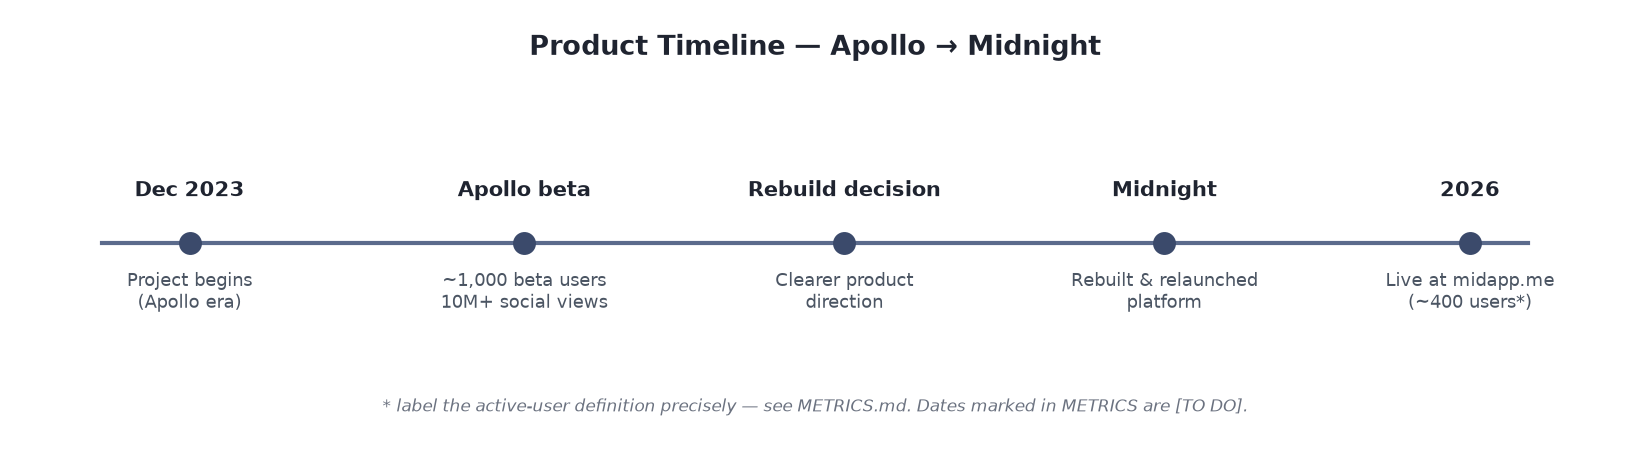
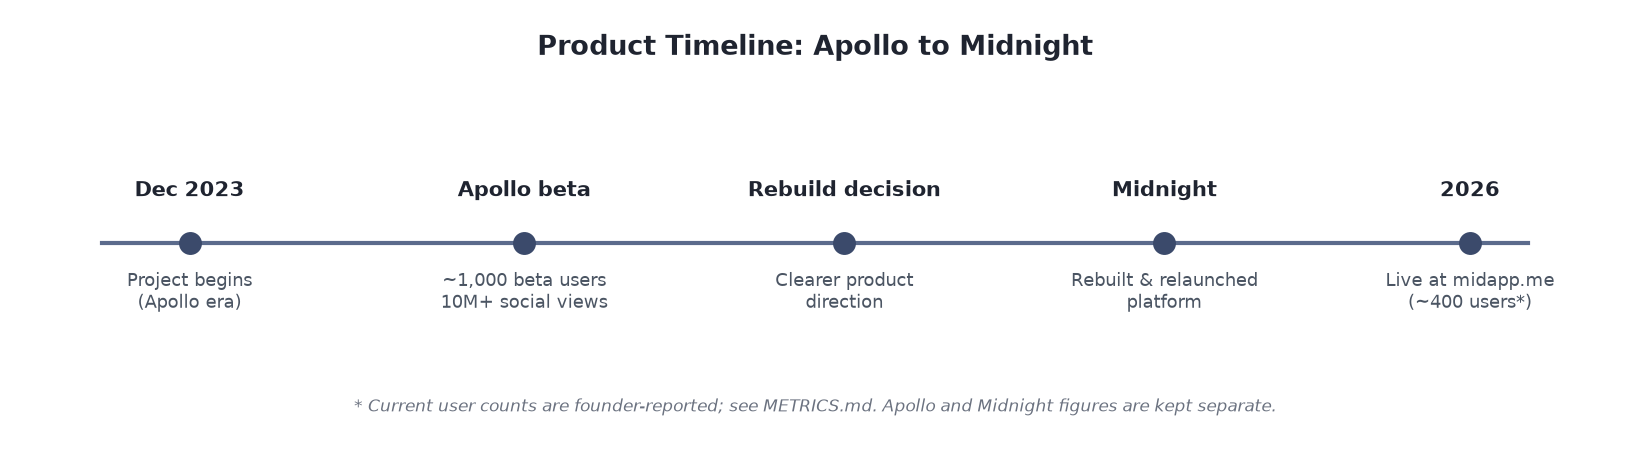
Remove em dashes from docs, description, and diagrams; fix auth in ASCII diagram

Changed region(s): [[0.2147, 0.8522, 0.7975, 0.913], [0.3067, 0.0609, 0.6748, 0.1217]]

diff --git a/ARCHITECTURE.md b/ARCHITECTURE.md
@@ -19,8 +19,8 @@
                          │               │               │
              ┌───────────▼──┐   ┌────────▼────────┐  ┌───▼──────────────────┐
              │ Auth          │   │ Database        │  │ AI routing layer     │
-             │ (Supabase)    │   │ (Supabase/       │  │ (Vercel AI SDK →     │
-             │               │   │  Postgres)      │  │  multiple providers) │
+             │ (WorkOS)      │   │ (PostgreSQL /   │  │ (Vercel AI SDK to    │
+             │               │   │  Supabase)      │  │  multiple providers) │
              └───────────────┘   └─────────────────┘  └───┬──────────────────┘
                                                           │
                                           ┌───────────────▼───────────────┐
@@ -36,21 +36,21 @@
 A rendered version is in [assets/architecture-diagram.png](assets/architecture-diagram.png).
 
 ## Components (generalized)
-- **Frontend** — Next.js 15 / React 19 single web application; component library built on Radix
+- **Frontend**: Next.js 15 / React 19 single web application; component library built on Radix
   UI primitives with Tailwind CSS; server state via TanStack Query.
-- **Application backend** — server-side routes handling requests, orchestration, and access to
+- **Application backend**: server-side routes handling requests, orchestration, and access to
   data and model providers.
-- **Authentication** — managed auth via **WorkOS (AuthKit)**.
-- **Database** — PostgreSQL (Supabase). *Schema intentionally omitted.*
-- **Caching / rate limiting** — Redis (Upstash).
-- **AI routing layer** — a single interface over **multiple model providers** (OpenAI, Groq,
+- **Authentication**: managed auth via **WorkOS (AuthKit)**.
+- **Database**: PostgreSQL (Supabase). *Schema intentionally omitted.*
+- **Caching / rate limiting**: Redis (Upstash).
+- **AI routing layer**: a single interface over **multiple model providers** (OpenAI, Groq,
   Cerebras, Fireworks AI) via the Vercel AI SDK, so requests can be served by different providers.
   *Routing logic and prompts omitted.*
-- **Background jobs** — long-running AI work (grading, generation, tutoring artifacts, generated
+- **Background jobs**: long-running AI work (grading, generation, tutoring artifacts, generated
   media) runs asynchronously via **Trigger.dev** so the UI stays responsive; progress is tracked
   and completion triggers notifications.
-- **Monitoring & analytics** — error tracking (Sentry) and product analytics (PostHog).
-- **Delivery** — monorepo (Turborepo + Yarn workspaces), deployed on Vercel, with staging used to
+- **Monitoring & analytics**: error tracking (Sentry) and product analytics (PostHog).
+- **Delivery**: monorepo (Turborepo + Yarn workspaces), deployed on Vercel, with staging used to
   validate configuration and deploys before production.
 
 ## Verified technology stack
@@ -64,7 +64,7 @@ Confirmed by inspecting the private repository's manifests (library names are no
 | Auth | WorkOS (AuthKit) |
 | Database | PostgreSQL (Supabase) |
 | Caching / rate limiting | Redis (Upstash) |
-| AI | Multi-provider LLM integration via the Vercel AI SDK — OpenAI, Groq, Cerebras, Fireworks AI (Llama, GPT-OSS, and GLM model families) |
+| AI | Multi-provider LLM integration via the Vercel AI SDK: OpenAI, Groq, Cerebras, Fireworks AI (Llama, GPT-OSS, and GLM model families) |
 | Background jobs | Trigger.dev (long-running AI tasks) |
 | Email | Resend / React Email |
 | Analytics & monitoring | PostHog, Sentry |

diff --git a/CASE_STUDY.md b/CASE_STUDY.md
@@ -1,8 +1,8 @@
-# Midnight — Full Case Study
+# Midnight: Full Case Study
 
 > Documentation-only. No production source code, user data, or secrets. Product-analytics figures
 > are founder-reported and aggregated. Historical **the beta** figures and current **Midnight**
-> figures are kept separate — see [METRICS.md](METRICS.md).
+> figures are kept separate, see [METRICS.md](METRICS.md).
 
 ## 1. Executive summary
 Midnight is an AI-powered student success platform ([www.midapp.me](https://www.midapp.me)) that
@@ -10,9 +10,9 @@ helps students turn scattered academic inputs into finished work through AI-assi
 quiz generation, flashcards, tutoring, and Canvas LMS integration. It is a rebuild and relaunch of
 an earlier product, **the beta**. Working in close coordination with a co-founder, I led product
 planning, user research, development priorities, testing, and marketing strategy, and served as the
-lead engineer and top code contributor (**1,684 of 3,607 commits, ~47%** — verified from the
+lead engineer and top code contributor (**1,684 of 3,607 commits, ~47%**, verified from the
 private repository). This case study documents the product problem, the the beta→Midnight transition,
-my responsibilities, the technical approach, and honest results and limitations — without exposing
+my responsibilities, the technical approach, and honest results and limitations, without exposing
 proprietary code.
 
 ## 2. The student problem
@@ -23,7 +23,7 @@ Midnight targets that gap with a single, student-first workspace where AI helps 
 *organize* academic work, and where long-running tasks keep progressing in the background.
 
 ## 3. The original the beta product
-the beta was the earlier version of this idea — an AI-assisted academic product for students. It
+the beta was the earlier version of this idea, an AI-assisted academic product for students. It
 validated demand and generated meaningful early traction: **approximately 1,000 live beta users**
 and **more than 10 million social-media views**, built with a team of **~25 contributors** (all
 founder-reported; see [METRICS.md](METRICS.md)).
@@ -41,11 +41,11 @@ features.
 
 ## 6. Midnight product direction
 Midnight is organized around a small set of AI-assisted tools that map to real student tasks:
-- **AI Grader** — assignment feedback and rubric evaluation.
-- **AI Quiz Generator** — quizzes from a topic, with practice/exam modes and resume.
-- **AI Flashcards** — deck generation with spaced repetition (FSRS).
-- **AI Tutor** — a tutoring workspace with interactive artifacts and generated study aids.
-- **Tasks** — assignment tracking with Canvas LMS sync.
+- **AI Grader**: assignment feedback and rubric evaluation.
+- **AI Quiz Generator**: quizzes from a topic, with practice/exam modes and resume.
+- **AI Flashcards**: deck generation with spaced repetition (FSRS).
+- **AI Tutor**: a tutoring workspace with interactive artifacts and generated study aids.
+- **Tasks**: assignment tracking with Canvas LMS sync.
 
 Design principle (from the product's own guidelines): *student work comes first; quiet confidence
 over spectacle; real controls over decoration.* Long AI jobs run in the background so students can
@@ -97,7 +97,7 @@ The platform serves AI features through a **multi-provider routing layer** (Verc
 OpenAI, Groq, Cerebras, and Fireworks AI), with **Upstash Redis** for rate limiting/caching and
 **Trigger.dev** running long AI tasks as background jobs. This architecture supports flexibility
 across model providers and keeps latency and cost manageable. No specific cost-reduction
-percentage is claimed here — see [METRICS.md](METRICS.md).
+percentage is claimed here, see [METRICS.md](METRICS.md).
 
 ## 12. Team and collaboration
 Midnight is built by a team (~13+ contributors in the current repository; ~25 during the the beta
@@ -111,7 +111,7 @@ environment used to validate configuration and deploys before release. Current u
 approximately **400 users** (founder-reported; see [METRICS.md](METRICS.md)).
 
 ## 14. Metrics
-All metrics — labeled, separated by product era, and marked verified/self-reported — live in
+All metrics, labeled, separated by product era, and marked verified/self-reported, live in
 [METRICS.md](METRICS.md). the beta and Midnight numbers are **never combined**.
 
 ## 15. Mistakes and lessons learned

diff --git a/README.md b/README.md
@@ -1,8 +1,8 @@
-# Midnight — Product Case Study
+# Midnight: Product Case Study
 
 Midnight is an education-technology platform focused on helping students use AI-assisted
 academic tools more effectively. This repository documents the product-development process,
-selected technical decisions, and lessons from rebuilding an earlier alpha product — while
+selected technical decisions, and lessons from rebuilding an earlier alpha product, while
 keeping the production source code private.
 
 > This is a **documentation-only case study**. It contains no production source code, no user
@@ -20,7 +20,7 @@ from an earlier product called **the beta**. Approximately **400 current users**
 
 ## My role
 Led product planning, user research, development priorities, testing, and marketing strategy, in
-close coordination with a co-founder — and served as lead engineer and the top code contributor.
+close coordination with a co-founder, and served as lead engineer and the top code contributor.
 Verified from the private repository: **1,684 of 3,607 commits (~47%)**, the single largest share
 among ~13+ contributors. Category-by-category ownership is in
 [CASE_STUDY.md → My responsibilities](CASE_STUDY.md#7-my-responsibilities).
@@ -35,7 +35,7 @@ create and organize academic work while background jobs keep long tasks moving.
   applying lessons to product design, UX, team structure, and technical infrastructure.
 - Led product planning, user research, development priorities, testing, and marketing strategy.
 - As lead engineer, built across the codebase (AI-assisted grading, quiz/flashcard generation with
-  spaced repetition, tutor workspace, Canvas LMS integration) — top contributor at ~47% of commits.
+  spaced repetition, tutor workspace, Canvas LMS integration), top contributor at ~47% of commits.
 - Worked on the multi-provider AI routing layer serving model requests across providers.
 
 ## Verified results
@@ -43,14 +43,14 @@ create and organize academic work while background jobs keep long tasks moving.
 - Production platform live at **www.midapp.me** with a multi-tool AI workspace.
 - **Predecessor (the beta):** ~1,000 live beta users, 10M+ social-media views, ~25 contributors
   (founder-reported). the beta and Midnight numbers are kept **separate and precisely labeled** in
-  [METRICS.md](METRICS.md) — never combined.
+  [METRICS.md](METRICS.md), never combined.
 
 ## Technology overview
 TypeScript monorepo (Turborepo + Yarn) on **Next.js / React**, **WorkOS** auth, **PostgreSQL
 (Supabase)**, **Redis (Upstash)**, **Redux Toolkit + React Query**, **Tailwind CSS + Radix UI**,
 **Trigger.dev** background jobs, **PostHog + Sentry**, tested with **Playwright + Vitest**, and
 deployed on **Vercel** via **GitHub Actions**. AI: **multi-provider LLM integration** (OpenAI,
-Groq, Cerebras, Fireworks AI — Llama, GPT-OSS, GLM families) via the Vercel AI SDK. A React Native
+Groq, Cerebras, Fireworks AI, Llama, GPT-OSS, GLM families) via the Vercel AI SDK. A React Native
 (Expo) mobile app is part of the product. Full (sanitized) detail in [ARCHITECTURE.md](ARCHITECTURE.md).
 
 ## Links

diff --git a/METRICS.md b/METRICS.md
@@ -3,7 +3,7 @@
 > **Two different products, kept separate.** the beta (earlier product) and Midnight (current
 > platform) numbers are **never combined**. Each figure is labeled with a definition, value,
 > source, and whether it is independently verified. Product-analytics figures are founder-reported
-> and aggregated — no user-level data appears here.
+> and aggregated, no user-level data appears here.
 
 ## Verified in this case study
 | Metric | Definition | Value | Period | Source | Independently verified |
@@ -11,14 +11,14 @@
 | Code contribution (mine) | Share of total commits authored by me in the current repo | **1,684 / 3,607 commits (~47%)** | repo start → Jul 2026 | Private git history (`git shortlog`) | ✅ Yes (from git) |
 | Contributors (current repo) | Distinct commit authors in the current repo | **~13+** | repo start → Jul 2026 | Private git history | ✅ Yes (from git) |
 
-## Historical — the beta (earlier product)
+## Historical: the beta (earlier product)
 | Metric | Definition | Value | Source | Independently verified |
 |--------|-----------|-------|--------|------------------------|
 | Live beta users | Users on the the beta beta | **~1,000** | Product analytics (founder-reported) | Self-reported |
 | Social-media views | Video views across social channels | **10M+** | Platform analytics (founder-reported) | Self-reported |
 | Contributors | People who contributed during the the beta stage | **~25** | Founder-reported | Self-reported |
 
-## Current — Midnight
+## Current: Midnight
 | Metric | Definition | Value | Source | Independently verified |
 |--------|-----------|-------|--------|------------------------|
 | Current users | Users of the current Midnight platform | **~400** | Product analytics (founder-reported) | Self-reported |
@@ -31,4 +31,4 @@
 No specific cost-reduction percentage is claimed in this case study. What can be stated from the
 stack is architectural: the platform integrates **multiple AI model providers** (OpenAI, Groq,
 Cerebras, Fireworks AI) behind a routing layer via the Vercel AI SDK, and uses **Upstash Redis**
-for rate limiting and caching — both common enablers of cost and latency control.
+for rate limiting and caching, both common enablers of cost and latency control.

diff --git a/PRIVACY.md b/PRIVACY.md
@@ -18,7 +18,7 @@ product and engineering work **without** exposing anything proprietary or sensit
 
 ## Screenshots policy
 Any screenshots added later must:
-- Use **sample or anonymized content** — no real user names, emails, school info, or private
+- Use **sample or anonymized content**: no real user names, emails, school info, or private
   conversations.
 - Exclude admin dashboards, internal analytics IDs, API keys, and proprietary prompts.
 - Be reviewed against the pre-release checklist before being committed.

diff --git a/assets/product-screenshots/README.md b/assets/product-screenshots/README.md
@@ -1,5 +1,5 @@
 # Product Screenshots
 
-Sanitized product screenshots will be added here. All images use sample or anonymized content —
+Sanitized product screenshots will be added here. All images use sample or anonymized content -
 no real user names, emails, school information, private conversations, admin views, API keys, or
 proprietary prompts. See [../../PRIVACY.md](../../PRIVACY.md).